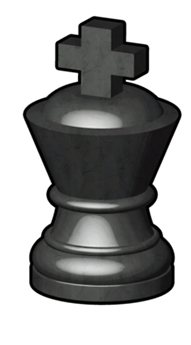
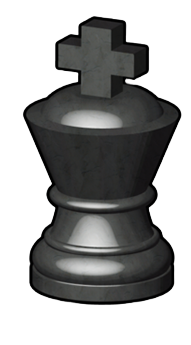
Applied chess set 2 theme - set as default

diff --git a/Chess/Main.py b/Chess/Main.py
@@ -23,7 +23,7 @@ DIMENSION = 8 # 8x8 board
 TILE_SIZE = BOARD_WIDTH // DIMENSION # size of a square (tile) on the gui
 MAX_FPS = 15 # for animations
 PIECE_IMAGES = {} # global dictionary of chess piece images
-chess_set = 1 # indicates which chess set to use; default is set 1
+chess_set = 2 # indicates which chess set to use; default is set 1
 
 # window settings
 WINDOW_WIDTH = BOARD_WIDTH + 300
@@ -42,8 +42,8 @@ heading_width = BOARD_WIDTH
 heading_height = WINDOW_HEIGHT - BOARD_HEIGHT - (GAP * 3)
 heading_starting_x_coordinate = GAP
 heading_starting_y_coordinate = GAP
-font_color = 'black' # color of the font; initialized as the color 'black'
-heading_background_color = 'white' # heading background color; initialized as the color 'white'
+font_color = '' # color of the font; initialized as the color 'black'
+heading_background_color = '' # heading background color; initialized as the color 'white'
 
 # initialize players
 player_one = Player.Player(1)
@@ -53,6 +53,9 @@ player_two = Player.Player(2)
 loads the desired chess set
 '''
 def load_chess_set(screen):
+    global font_color
+    global heading_background_color
+
     if chess_set == 1: # chess set 1
         piece_set = "Set1"
         background_color = 'light grey'
@@ -61,10 +64,10 @@ def load_chess_set(screen):
         game_log_background_color = 'white'
     elif chess_set == 2: # TODO chess set 2
         piece_set = "Set2"
-        background_color = ''
-        heading_background_color = ''
-        font_color = ''
-        game_log_background_color = ''
+        background_color = pygame.Color(222,184,135)
+        heading_background_color = pygame.Color(255,228,196)
+        font_color = pygame.Color(139,69,19)
+        game_log_background_color = heading_background_color
     else: # TODO chess set 3
         piece_set = "Set3"
         background_color = ''
@@ -285,8 +288,8 @@ def draw_board_tiles(screen):
         tile_color1 = 'white'
         tile_color2 = 'grey'
     elif chess_set == 2: # TODO chess set 2
-        tile_color1 = ''
-        tile_color2 = ''
+        tile_color1 = 'white'
+        tile_color2 = pygame.Color(139,69,19)
     else: # TODO chess set 3
         tile_color1 = ''
         tile_color2 = ''
